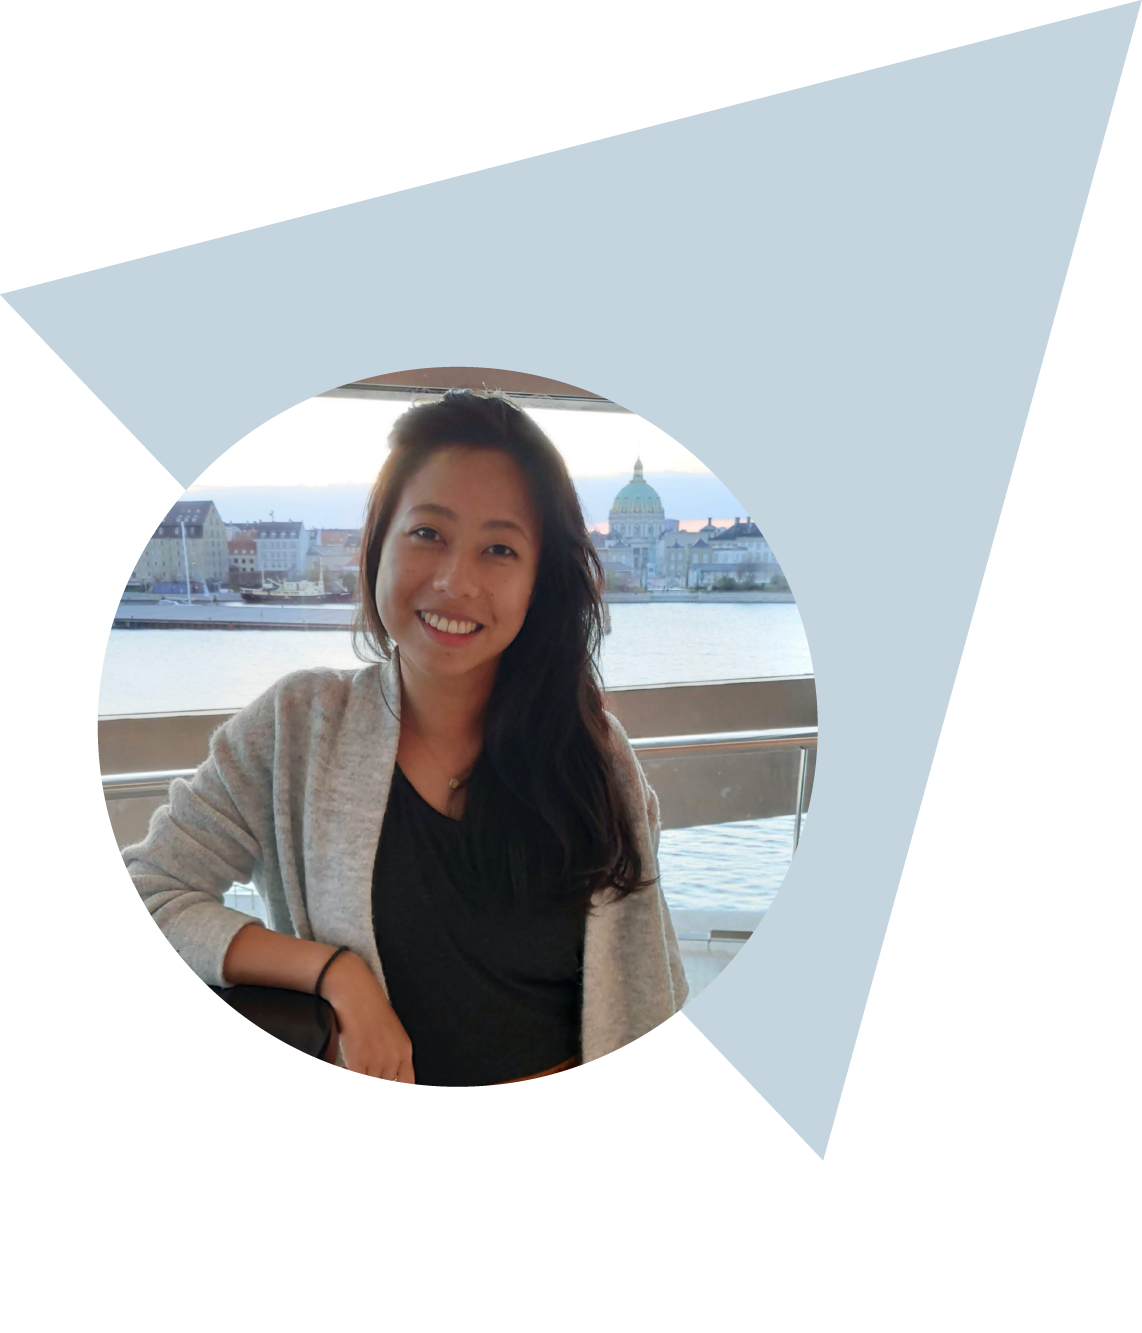
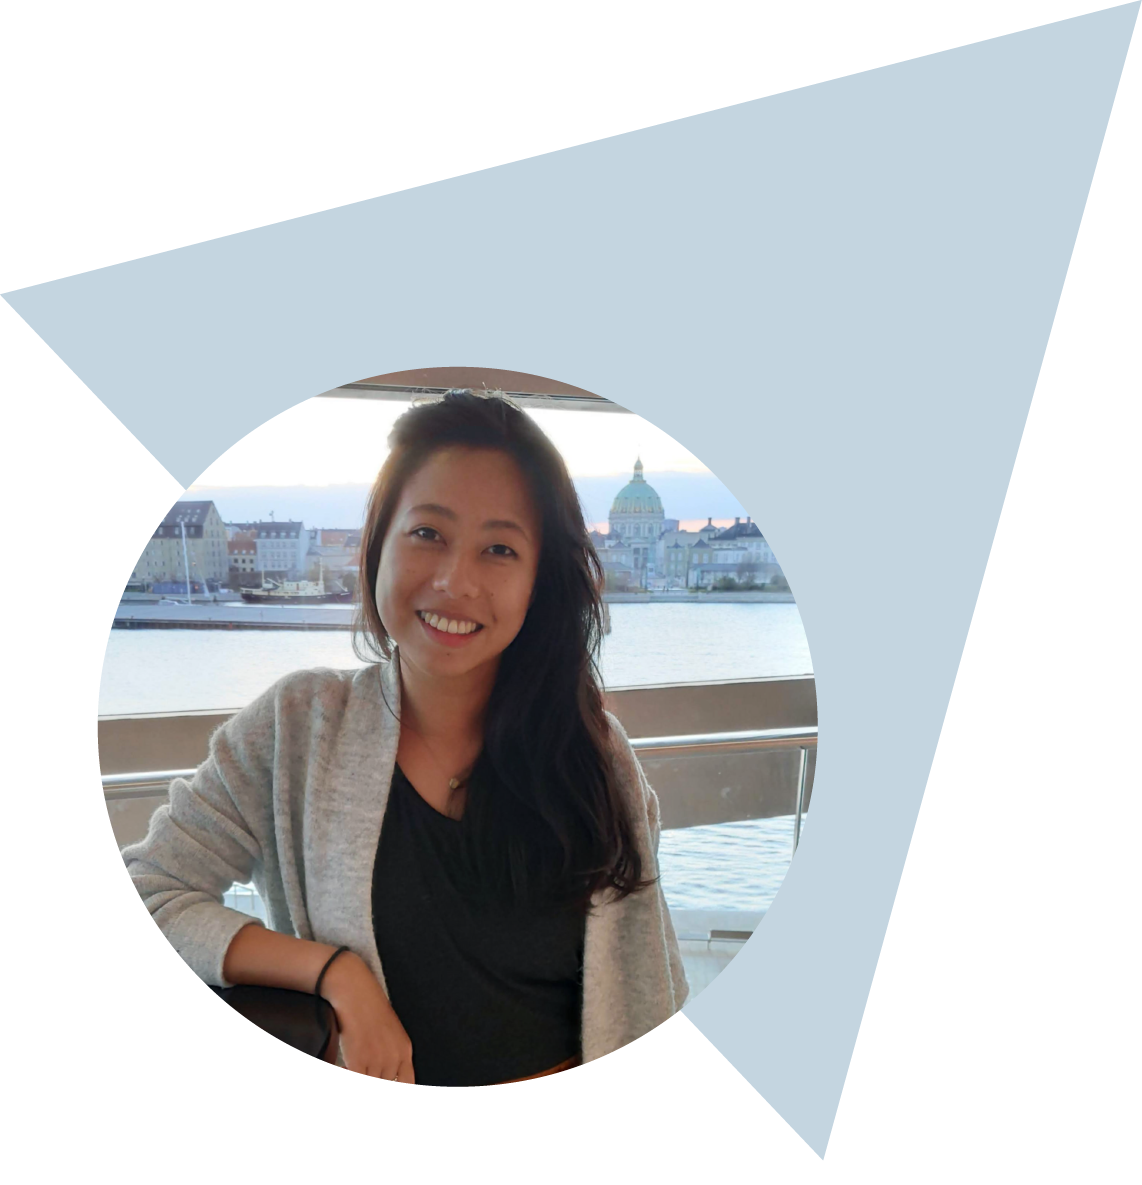
optimize images

Changed region(s): [[0.0, 0.0624, 0.9501, 0.9679], [0.7356, 0.0312, 0.8581, 0.0624], [0.9501, 0.0937, 0.9807, 0.1561]]

diff --git a/css/style.css b/css/style.css
@@ -173,7 +173,7 @@ body {
 
 .div--linesbackground {
   position: absolute;
-  background: url(../images/testlines.png);
+  background: url(../images/lines.png);
   height: 75vh;
   max-height: 32em;
   width: 100%;
@@ -487,7 +487,7 @@ p {
   -webkit-transform-origin: right bottom;
           transform-origin: right bottom;
   position: relative;
-  top: 10px;
+  top: 6px;
 }
 
 .profilelinks a {
@@ -664,6 +664,9 @@ p {
     -ms-grid-column: 1;
     grid-area: 1 / 1;
     width: 335px;
+  }
+  .profilelinks {
+    top: 0.8em;
   }
   .div--understanding {
     -ms-grid-row: 2;
@@ -848,6 +851,7 @@ p {
   }
   .profilelinks {
     width: 100%;
+    top: 0.7em;
   }
   .profilelinks a {
     font-size: 1.4em;
@@ -1144,6 +1148,7 @@ p {
   }
   .profilelinks {
     width: 100%;
+    top: 0.7em;
   }
   .profilelinks a {
     font-size: 1.4em;
@@ -1210,6 +1215,9 @@ p {
 @media (min-width: 1550px) {
   .headertext {
     font-size: 3.3em;
+  }
+  .profilelinks {
+    top: 0.4em;
   }
   .profilelinks a {
     font-size: 1.6em;

diff --git a/js/portfolio.js b/js/portfolio.js
@@ -34,9 +34,17 @@ function navInit() {
 function navlinkClicked(event) {
   event.preventDefault();
   if (event.target.id === "homelink" || event.target.id === "homeside") {
-    indexSection.scrollIntoView({ behavior: "smooth", block: "start" });
+    indexSection.scrollIntoView({
+      behavior: "smooth",
+      block: "start",
+      inline: "nearest"
+    });
   } else if (event.target.id === "pflink" || event.target.id === "pfside") {
-    pfSection.scrollIntoView({ behavior: "smooth", block: "start" });
+    pfSection.scrollIntoView({
+      behavior: "smooth",
+      block: "start",
+      inline: "nearest"
+    });
   } else if (
     event.target.id === "aboutlink" ||
     event.target.id === "aboutside"

diff --git a/css/_about.scss b/css/_about.scss
@@ -50,7 +50,7 @@ p {
   transform: rotate(-14.5deg);
   transform-origin: right bottom;
   position: relative;
-  top: 10px;
+  top: 6px;
 
   a {
     display: inline;
@@ -164,6 +164,10 @@ p {
     width: 335px;
   }
 
+  .profilelinks {
+    top: 0.8em;
+  }
+
   .div--understanding {
     grid-area: 2 / 1 / 3 / span 2;
     width: 60%;
@@ -241,6 +245,7 @@ p {
 
   .profilelinks {
     width: 100%;
+    top: 0.7em;
     a {
       font-size: 1.4em;
     }
@@ -298,8 +303,11 @@ p {
 //--- BREAKPOINT DESKTOP width 1550px
 
 @mixin about--desktop {
-  .profilelinks a {
-    font-size: 1.6em;
+  .profilelinks {
+    top: 0.4em;
+    a {
+      font-size: 1.6em;
+    }
   }
 
   .seeyou {

diff --git a/css/_index.scss b/css/_index.scss
@@ -29,7 +29,7 @@
 
 .div--linesbackground {
   position: absolute;
-  background: url(../images/testlines.png);
+  background: url(../images/lines.png);
   height: 75vh;
   max-height: 32em;
   width: 100%;
@@ -146,7 +146,7 @@
 
   .div--linesbackground {
     position: absolute;
-    background: url(../images/testlines.png);
+    background: url(../images/lines.png);
     max-height: 100vh;
     height: 100%;
     width: 100%;
